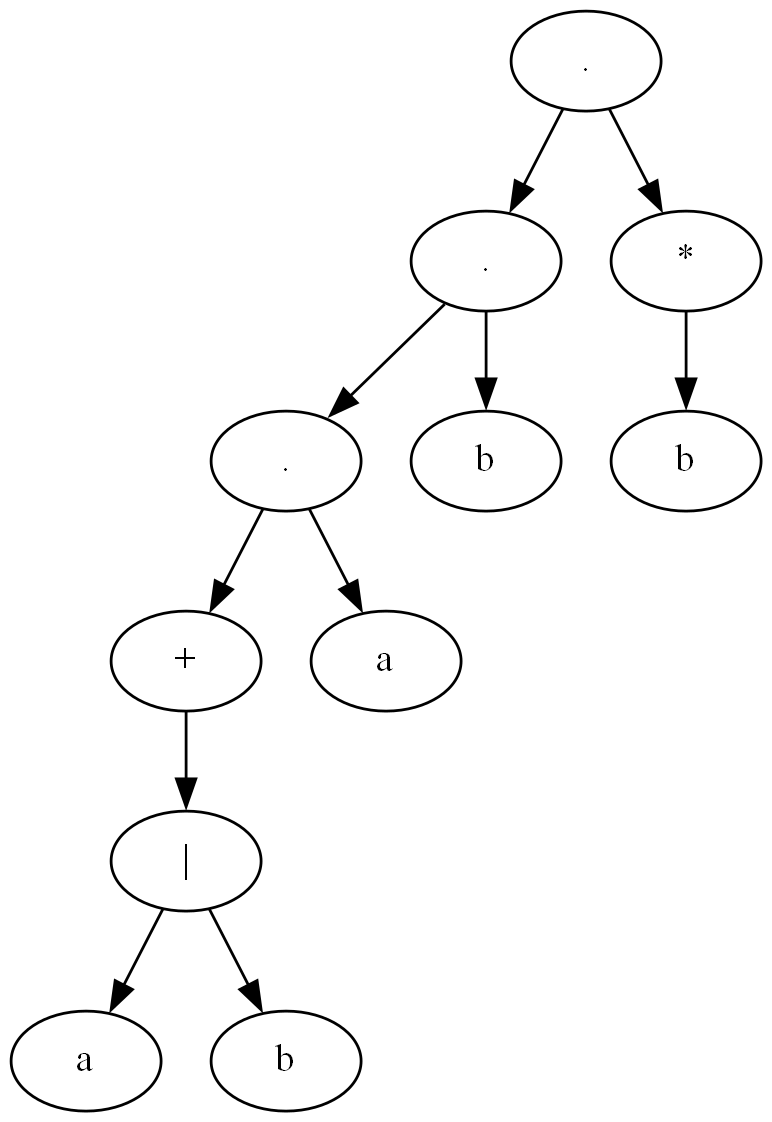
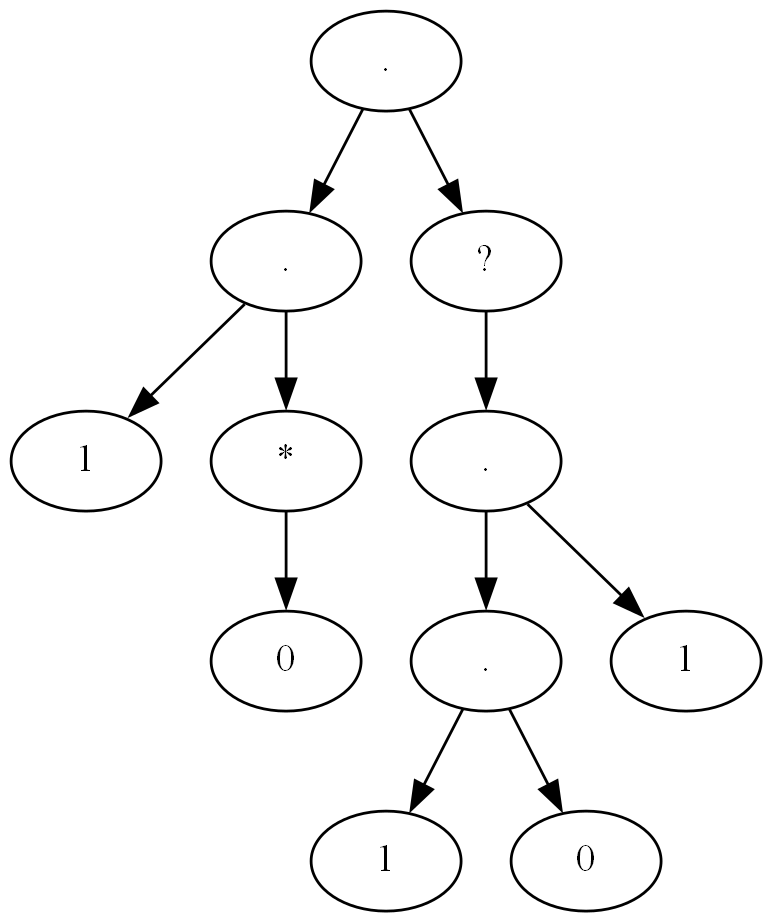
Finished validation and some bug fixing

diff --git a/Lab A/main.py b/Lab A/main.py
@@ -1,6 +1,7 @@
 import sys
 from graphviz import Digraph
 import copy
+import re
 
 class Tree:
     def __init__(self, root):
@@ -249,31 +250,74 @@ def shunting_yard(user_input):
     return output
 
 
+def validate_input(user_input):
+    if (len(user_input) == 0):
+        print ('Invalid input: Empty input')
+        return False
+    if ('.' in user_input):
+        print ('Invalid input: . is a reserved character')
+        return False
+    two_ors_regex = re.search(r'\|\s*\|', user_input)
+    if (two_ors_regex):
+        print('Invalid input: Two or more consecutive |, error at position: {}'.format(two_ors_regex.start()))
+        return False
+    initial_symbol_regex = re.search(r'^\s*[*+?|.]', user_input)
+    if (initial_symbol_regex):
+        print('Invalid input: Symbols at start are not a valid operation, error at position: {}'.format(initial_symbol_regex.start()))
+        return False
+    final_symbol_regex = re.search(r'[\s]*[|.]$', user_input)
+    if (final_symbol_regex):
+        print('Invalid input: Symbol at end not valid, error at position: {}'.format(final_symbol_regex.start()))
+        return False
+    empty_parenthesis_regex = re.search(r'\(\s*\)', user_input)
+    if (empty_parenthesis_regex):
+        print('Invalid input: Empty parenthesis, error at position: {}'.format(empty_parenthesis_regex.start()))
+        return False
+    operator_open_parenthesis_regex = re.search(r'\(\s*[+*?|.]', user_input)
+    if (operator_open_parenthesis_regex):
+        print('Invalid input: Operators after open parenthesis are not a valid operation, error at position: {}'.format(operator_open_parenthesis_regex.start()))
+        return False
+    operator_closing_parenthesis_regex = re.search(r'[|.]\s*\)', user_input)
+    if (operator_closing_parenthesis_regex):
+        print('Invalid input: Second of operation misssing, error at position: {}'.format(operator_closing_parenthesis_regex.start()))
+        return False
+    
+    parenthesis_count = 0
+    for i in range(len(user_input)):
+        if (user_input[i] == '('):
+            parenthesis_count += 1
+        elif (user_input[i] == ')'):
+            parenthesis_count -= 1
+        if (parenthesis_count < 0):
+            print('Invalid input: Mismatched parenthesis, cannot close a parenthesis that was not opened, error at position: {}'.format(i))
+            return False
+    if (parenthesis_count != 0):
+        #get the last ocurrence of a parenthesis
+        print('Invalid input: Parenthesis mismatch error, close all parenthesis to fix it')
+        return False
+    return True
+
 
 # Main function
 def main():
     # this inputs the user input from the command line
     #print(sys.argv[1])
-    user_input = '(a|b)+abb*' # dummy input
-    user_input = clean_input(user_input) 
-    #TODO: check if the input is valid
-    user_input = format_input(user_input)
-    print('Concats added: ',user_input)
-    output = shunting_yard(user_input)
-    print('Output: ',output)
-    tree = build_tree(output)
-    print('Tree Root: ',tree.key)
-    digraph = Digraph(graph_attr={'dpi': str(200)})
-    postorder_traversal_draw(tree, digraph)
-    # instead of a pdf file, generate a png file with -Tpng:gd
-    digraph.render('expression tree', format='png')
-
-    automata = build_automata(output)
-    draw_automata(automata)
     
+    user_input = sys.argv[1] if len(sys.argv) > 1 else input('Enter a regular expression: ')
 
+    if validate_input(user_input) and (len(user_input) > 0):
+        user_input = clean_input(user_input)
+        user_input = format_input(user_input)
+        output = shunting_yard(user_input)
+        print('Postfix: ',''.join(output))
+        tree = build_tree(output)
 
-
+        digraph = Digraph(graph_attr={'dpi': str(200)})
+        postorder_traversal_draw(tree, digraph)
+        digraph.render('expression tree', format='png')
+        automata = build_automata(output)
+        draw_automata(automata)
+        print('Success!, expression tree and NFA png files generated :)')
 
 if __name__ == "__main__":
     main()
